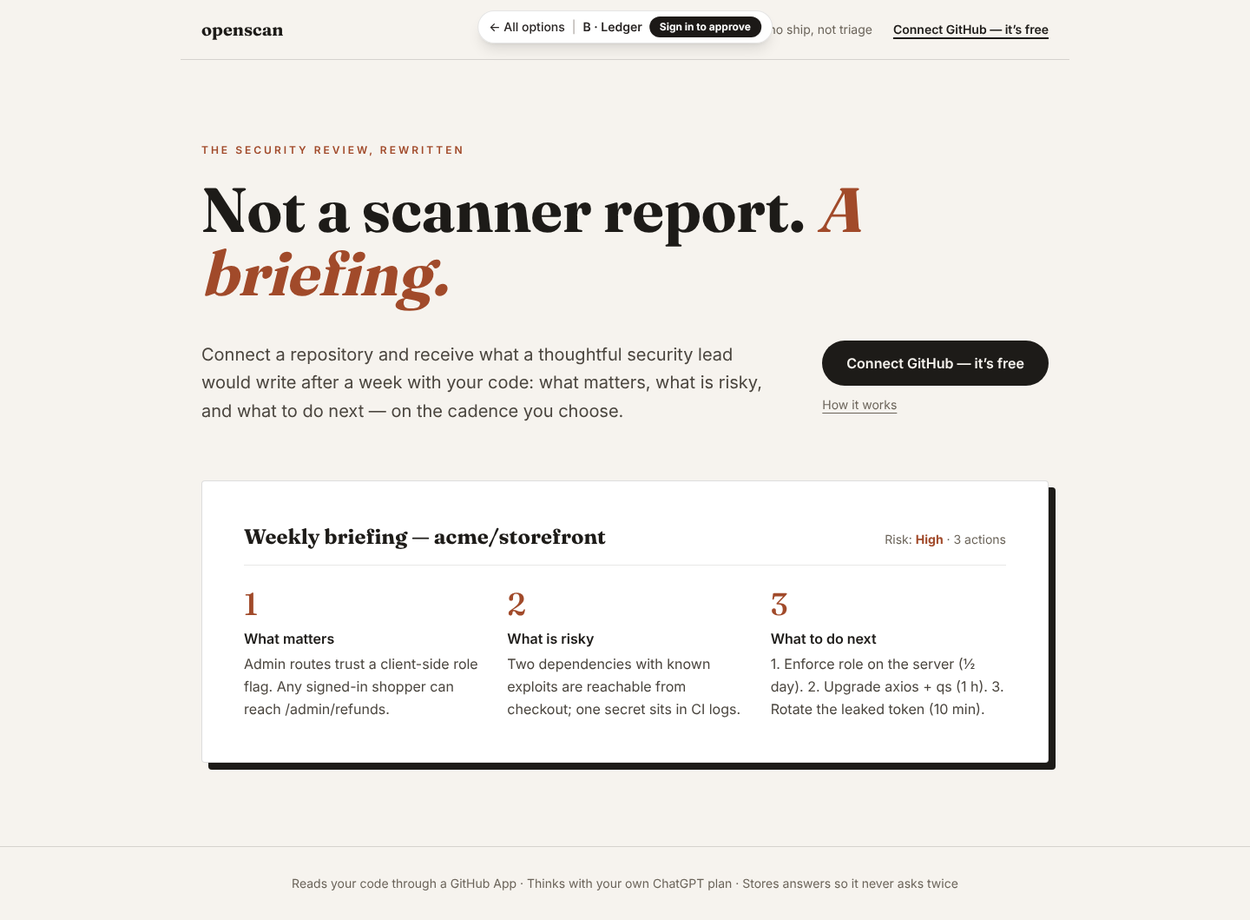
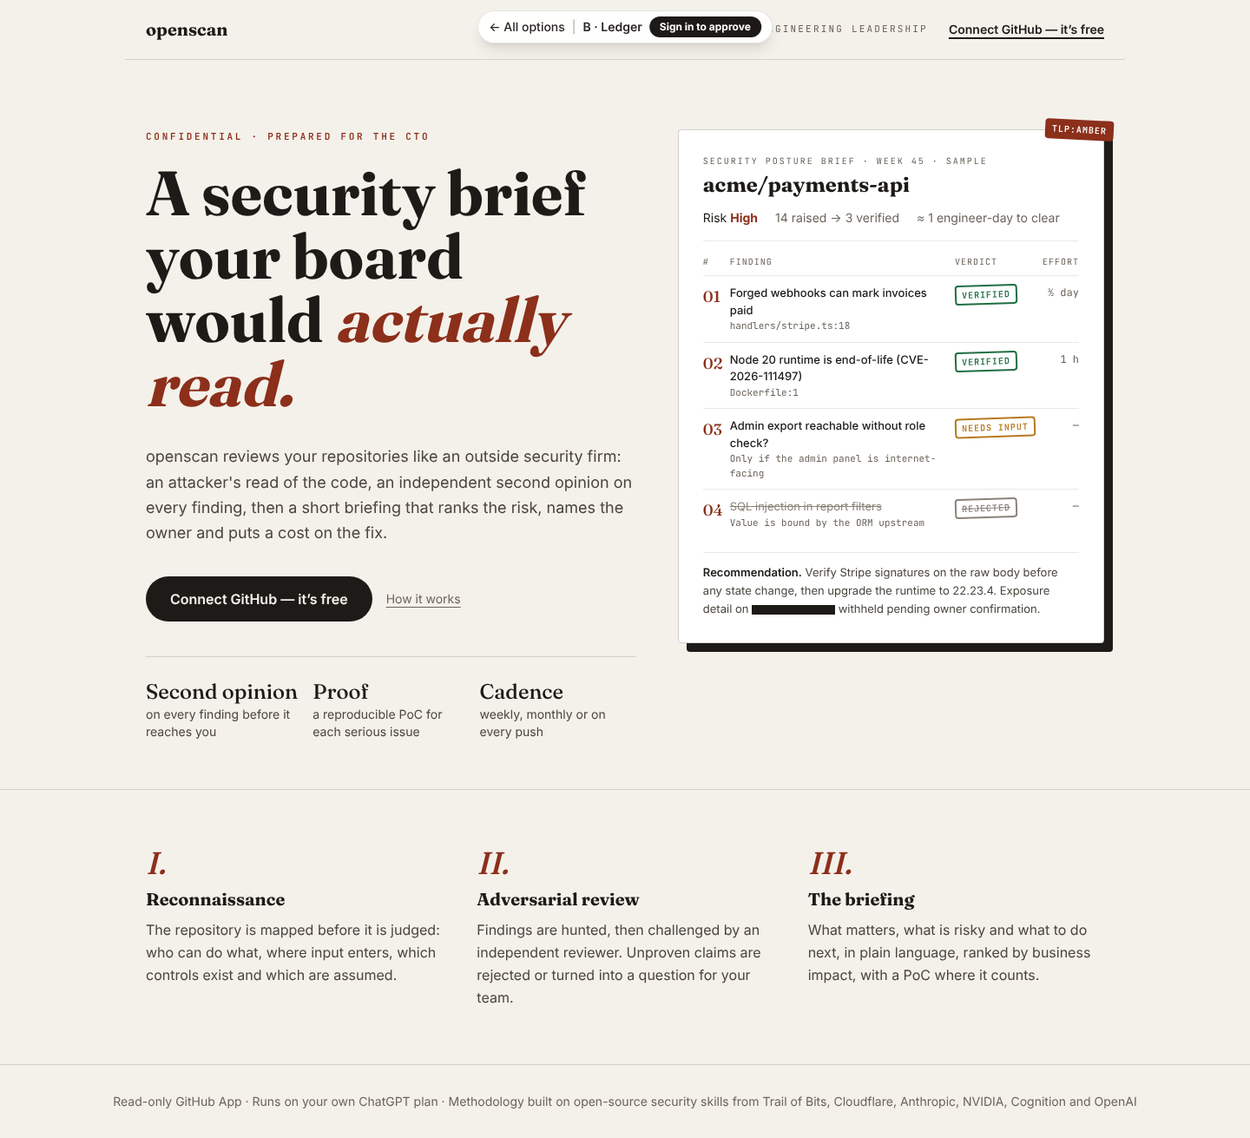
Rework landing options A (Signal) and B (Ledger) for CTO / team-lead audience
A: operator-console scan session showing candidates disproven by the validator.
B: consultancy-style confidential CTO briefing with verdict-stamped risk register.

Claude-Session: https://claude.ai/code/session_01HerkYyGpsidv53piZkFSrR

diff --git a/src/components/landing/DesignSignal.tsx b/src/components/landing/DesignSignal.tsx
@@ -1,83 +1,141 @@
 import type { LandingProps } from './types'
 
-/** Option A — "Signal": dark, terminal-flavoured, shows the triage output as the hero. */
+const mono = 'font-mono'
+
+function Line({ tag, color, children }: { tag: string; color: string; children: React.ReactNode }) {
+  return (
+    <p className="flex gap-3">
+      <span className={`w-[86px] shrink-0 ${color}`}>[{tag}]</span>
+      <span className="text-[#c9d1d9]">{children}</span>
+    </p>
+  )
+}
+
+/**
+ * Option A — "Signal": dark, operator-console aesthetic. Leads with a live scan
+ * session where most candidates are disproven before they reach you.
+ */
 export function DesignSignal({ cta, secondary }: LandingProps) {
   return (
-    <div className="relative min-h-screen overflow-hidden bg-[#07090c] text-[#e6edf3]">
-      <div className="pointer-events-none absolute inset-x-0 top-0 h-[480px] bg-[radial-gradient(60%_60%_at_50%_0%,rgba(52,211,153,0.18),transparent)]" />
-      <nav className="relative mx-auto flex max-w-6xl items-center justify-between px-6 py-5">
-        <span className="font-mono text-sm font-semibold tracking-tight text-emerald-300">openscan</span>
-        <a href={cta.href} className="rounded-md border border-emerald-400/30 px-3 py-1.5 font-mono text-xs text-emerald-200 hover:bg-emerald-400/10">
+    <div className="relative min-h-screen overflow-hidden bg-[#05070a] text-[#e6edf3]">
+      <div className="pointer-events-none absolute inset-0 bg-[radial-gradient(50%_40%_at_70%_0%,rgba(52,211,153,0.16),transparent),radial-gradient(40%_30%_at_0%_30%,rgba(56,189,248,0.08),transparent)]" />
+      <div className="pointer-events-none absolute inset-0 bg-[linear-gradient(rgba(255,255,255,0.025)_1px,transparent_1px)] bg-[size:100%_4px]" />
+
+      <nav className={`relative mx-auto flex max-w-6xl items-center justify-between px-6 py-5 ${mono} text-xs`}>
+        <span className="flex items-center gap-1 text-sm font-semibold text-emerald-300">
+          <span className="text-[#5f6b78]">~/</span>openscan<span className="ml-0.5 inline-block h-4 w-2 animate-pulse bg-emerald-300" />
+        </span>
+        <div className="hidden items-center gap-6 text-[#7d8590] md:flex">
+          <span>recon</span>
+          <span>hunt</span>
+          <span>validate</span>
+          <span>brief</span>
+        </div>
+        <a href={cta.href} className="rounded border border-emerald-400/40 px-3 py-1.5 text-emerald-200 hover:bg-emerald-400/10">
           {cta.label} →
         </a>
       </nav>
 
-      <section className="relative mx-auto grid max-w-6xl gap-12 px-6 pb-20 pt-12 lg:grid-cols-[1.1fr_1fr] lg:pt-20">
+      <section className="relative mx-auto grid max-w-6xl gap-12 px-6 pb-16 pt-12 lg:grid-cols-[1fr_1.08fr] lg:pt-16">
         <div>
-          <p className="mb-5 font-mono text-xs uppercase tracking-[0.2em] text-emerald-300/80">AI security review · GitHub App</p>
-          <h1 className="text-4xl font-extrabold leading-[1.05] tracking-tight sm:text-6xl">
-            Less noise.
+          <p className={`mb-5 ${mono} text-xs uppercase tracking-[0.2em] text-emerald-300/80`}>
+            <span className="text-[#5f6b78]">$</span> continuous AI pentest · GitHub App
+          </p>
+          <h1 className="text-4xl font-extrabold leading-[1.04] tracking-tight sm:text-6xl">
+            Every finding
             <br />
-            <span className="text-emerald-300">The three things</span>
+            was attacked
             <br />
-            worth fixing today.
+            <span className="bg-gradient-to-r from-emerald-300 to-sky-300 bg-clip-text text-transparent">before you saw it.</span>
           </h1>
           <p className="mt-6 max-w-xl text-lg text-[#9aa7b4]">
-            Install the app, pick repositories, and an agent reads your code like a new senior engineer would — asking questions, answering most of them
-            itself, and turning findings into a short, ranked plan.
+            openscan hunts your repositories like a red team, then hands every candidate to a second, independent agent whose only job is to disprove it.
+            What survives gets a severity, a source trace and a fix. The rest is shown with the reasoning for dismissing it.
           </p>
           <div className="mt-8 flex flex-wrap items-center gap-3">
-            <a href={cta.href} className="rounded-md bg-emerald-400 px-5 py-3 font-semibold text-[#07130d] shadow-[0_0_40px_-8px_rgba(52,211,153,0.8)] hover:bg-emerald-300">
+            <a href={cta.href} className="rounded-md bg-emerald-400 px-5 py-3 font-semibold text-[#04130c] shadow-[0_0_44px_-8px_rgba(52,211,153,0.85)] hover:bg-emerald-300">
               {cta.label}
             </a>
             {secondary && (
-              <a href={secondary.href} className="px-3 py-3 font-mono text-sm text-[#9aa7b4] hover:text-white">
-                {secondary.label}
+              <a href={secondary.href} className={`px-3 py-3 ${mono} text-sm text-[#9aa7b4] hover:text-white`}>
+                {secondary.label} ↓
               </a>
             )}
           </div>
-          <p className="mt-4 font-mono text-xs text-[#5f6b78]">Inference runs on your own ChatGPT plan. No API keys.</p>
+          <dl className={`mt-10 grid max-w-md grid-cols-3 gap-4 border-t border-white/10 pt-6 ${mono}`}>
+            {[
+              ['read-only', 'GitHub access'],
+              ['0', 'API keys: runs on your ChatGPT'],
+              ['1 page', 'brief for leadership'],
+            ].map(([v, k]) => (
+              <div key={k}>
+                <dt className="text-lg font-semibold text-white">{v}</dt>
+                <dd className="mt-1 text-[11px] leading-snug text-[#7d8590]">{k}</dd>
+              </div>
+            ))}
+          </dl>
         </div>
 
-        <div className="rounded-xl border border-white/10 bg-[#0d1117] p-1 shadow-2xl">
-          <div className="flex items-center gap-1.5 border-b border-white/5 px-3 py-2">
+        <div className="rounded-xl border border-white/10 bg-[#0b0f14]/90 shadow-2xl backdrop-blur">
+          <div className="flex items-center gap-1.5 border-b border-white/5 px-4 py-2.5">
             <span className="h-2.5 w-2.5 rounded-full bg-[#ff5f56]" />
             <span className="h-2.5 w-2.5 rounded-full bg-[#ffbd2e]" />
             <span className="h-2.5 w-2.5 rounded-full bg-[#27c93f]" />
-            <span className="ml-3 font-mono text-[11px] text-[#5f6b78]">acme/payments-api · report</span>
+            <span className={`ml-3 ${mono} text-[11px] text-[#5f6b78]`}>openscan — acme/payments-api — sample session</span>
           </div>
-          <div className="space-y-4 p-5 font-mono text-[13px] leading-relaxed">
-            <p className="text-[#5f6b78]">$ openscan --depth=deep</p>
-            <p>
-              <span className="text-emerald-300">✓</span> read 41 files · checked 612 deps · <span className="text-amber-300">2 questions for you</span>
-            </p>
-            <div className="rounded-lg border border-red-400/20 bg-red-400/5 p-3">
-              <p className="text-red-300">1 · HIGH  Webhook signature not verified</p>
-              <p className="text-[#9aa7b4]">src/routes/stripe.ts:18 → anyone can mark invoices paid</p>
+          <div className={`space-y-1.5 p-5 ${mono} text-[12.5px] leading-relaxed`}>
+            <p className="text-[#5f6b78]">$ openscan scan acme/payments-api --depth=deep</p>
+            <Line tag="recon" color="text-sky-300">3 principals · 41 entry points · 2 trust boundaries</Line>
+            <Line tag="signals" color="text-sky-300">612 deps · node:20.11 is EOL (CVE-2026-111497)</Line>
+            <Line tag="hunt" color="text-amber-300">14 candidates from AI review + static rules</Line>
+            <Line tag="validate" color="text-rose-300">
+              <span className="text-rose-300">✗ 9 rejected</span> <span className="text-[#7d8590]">controls found upstream</span>
+            </Line>
+            <Line tag="validate" color="text-amber-300">
+              <span className="text-amber-300">? 2 need input</span> <span className="text-[#7d8590]">asked your team</span>
+            </Line>
+            <Line tag="validate" color="text-emerald-300">
+              <span className="text-emerald-300">✓ 3 confirmed</span>
+            </Line>
+            <Line tag="brief" color="text-emerald-300">3 actions · ~1 engineer-day · report ready</Line>
+
+            <div className="mt-4 rounded-lg border border-red-400/25 bg-red-400/[0.06] p-3">
+              <div className="flex items-center justify-between gap-2">
+                <p className="text-red-300">HIGH · Stripe webhook signature never verified</p>
+                <span className="rounded bg-emerald-500 px-1.5 text-[10px] font-bold text-black">✓ VERIFIED</span>
+              </div>
+              <p className="mt-2 text-[#9aa7b4]">attacker → POST /webhooks/stripe → handlers/stripe.ts:18 → invoices.markPaid()</p>
+              <p className="mt-1 text-[#7d8590]">gates: reachability ✓ impact ✓ no upstream control ✓</p>
             </div>
-            <div className="rounded-lg border border-amber-400/20 bg-amber-400/5 p-3">
-              <p className="text-amber-300">2 · MED   jsonwebtoken@8.5.1 (CVE-2022-23529)</p>
-              <p className="text-[#9aa7b4]">upgrade to ≥ 9.0.0 · reachable from /auth</p>
+            <div className="rounded-lg border border-white/10 p-3 text-[#7d8590]">
+              <p className="line-through decoration-rose-400/60">MED · SQL injection in reports/query.ts:44</p>
+              <p className="mt-1">rejected: value bound by ORM parameter at db.ts:12</p>
             </div>
-            <p className="text-[#9aa7b4]">
-              <span className="text-emerald-300">next →</span> verify signatures with the raw body (≈15 min)
-            </p>
           </div>
         </div>
       </section>
 
-      <section className="relative border-t border-white/5">
-        <div className="mx-auto grid max-w-6xl gap-px overflow-hidden px-6 py-16 sm:grid-cols-3">
-          {[
-            ['01 · Understands first', 'Builds a profile of your stack, data stores and trust boundaries before judging anything.'],
-            ['02 · Asks, then answers', 'Raises the questions a reviewer would — and resolves most by reading further.'],
-            ['03 · Tells you what to do', 'Ranked risks, plain-language impact, a fix order. Optional PoC for each serious issue.'],
-          ].map(([t, d]) => (
-            <div key={t} className="p-6">
-              <p className="font-mono text-sm text-emerald-300">{t}</p>
-              <p className="mt-2 text-[#9aa7b4]">{d}</p>
-            </div>
-          ))}
+      <section id="how" className="relative border-t border-white/5">
+        <div className="mx-auto max-w-6xl px-6 py-16">
+          <p className={`${mono} text-xs uppercase tracking-[0.2em] text-[#7d8590]`}>// the pipeline</p>
+          <div className="mt-6 grid gap-px overflow-hidden rounded-xl border border-white/10 bg-white/10 sm:grid-cols-2 lg:grid-cols-4">
+            {[
+              ['01', 'recon', 'Maps principals, entry points and trust boundaries before judging anything. Questions it can\'t answer from code go to your team.'],
+              ['02', 'hunt', 'AI review plus deterministic checks: dependency CVEs, runtime EOL, CI pipelines that run AI agents.'],
+              ['03', 'validate', 'A fresh agent tries to refute each finding: is it reachable, is the impact real, is there a control upstream?'],
+              ['04', 'brief', 'Ranked fix plan for leads, a one-page posture brief for the CTO, and a PoC for every serious issue.'],
+            ].map(([n, t, d]) => (
+              <div key={n} className="bg-[#05070a] p-6">
+                <p className={`${mono} text-sm text-emerald-300`}>
+                  {n} <span className="text-white">{t}</span>
+                </p>
+                <p className="mt-3 text-sm text-[#9aa7b4]">{d}</p>
+              </div>
+            ))}
+          </div>
+          <p className={`mt-6 ${mono} text-[11px] text-[#5f6b78]`}>
+            methodology built on open-source security skills published by Trail of Bits, Cloudflare, Anthropic, NVIDIA, Cognition and OpenAI
+          </p>
         </div>
       </section>
     </div>

diff --git a/src/components/landing/DesignLedger.tsx b/src/components/landing/DesignLedger.tsx
@@ -1,31 +1,49 @@
 import type { LandingProps } from './types'
 
-/** Option B — "Ledger": light, editorial, the report as a document you'd forward to your CTO. */
+function Stamp({ kind }: { kind: 'verified' | 'input' | 'rejected' }) {
+  const s =
+    kind === 'verified'
+      ? 'border-[#1f6f43] text-[#1f6f43]'
+      : kind === 'input'
+        ? 'border-[#b7791f] text-[#b7791f]'
+        : 'border-[#8a8379] text-[#8a8379] line-through'
+  const label = kind === 'verified' ? 'Verified' : kind === 'input' ? 'Needs input' : 'Rejected'
+  return <span className={`inline-block -rotate-2 whitespace-nowrap rounded-sm border-2 px-1.5 py-0.5 font-mono text-[10px] font-bold uppercase tracking-widest ${s}`}>{label}</span>
+}
+
+function Redacted({ w }: { w: string }) {
+  return <span className={`inline-block h-[0.9em] translate-y-[2px] bg-[#1d1b18] ${w}`} />
+}
+
+/**
+ * Option B — "Ledger": light, editorial. The product is the security briefing a
+ * consultancy would hand a CTO: a risk register with verdicts, not a scanner dump.
+ */
 export function DesignLedger({ cta, secondary }: LandingProps) {
   return (
-    <div className="relative min-h-screen bg-[#f6f3ee] text-[#1d1b18]">
-      <nav className="mx-auto flex max-w-5xl items-center justify-between border-b border-[#1d1b18]/15 px-6 py-5">
+    <div className="relative min-h-screen bg-[#f4f1ea] text-[#1d1b18]">
+      <nav className="mx-auto flex max-w-6xl items-center justify-between border-b border-[#1d1b18]/15 px-6 py-5">
         <span className="font-serif text-xl font-bold">openscan</span>
         <div className="flex items-center gap-6 text-sm">
-          <span className="hidden text-[#6b645a] sm:inline">For teams who ship, not triage</span>
+          <span className="hidden font-mono text-[11px] uppercase tracking-[0.2em] text-[#6b645a] md:inline">Security briefings for engineering leadership</span>
           <a href={cta.href} className="font-semibold underline decoration-2 underline-offset-4">
             {cta.label}
           </a>
         </div>
       </nav>
 
-      <section className="mx-auto max-w-5xl px-6 pb-16 pt-16 sm:pt-24">
-        <p className="mb-6 text-xs font-semibold uppercase tracking-[0.25em] text-[#a14a2a]">The security review, rewritten</p>
-        <h1 className="max-w-4xl font-serif text-5xl font-bold leading-[1.02] sm:text-7xl">
-          Not a scanner report. <em className="text-[#a14a2a]">A briefing.</em>
-        </h1>
-        <div className="mt-10 grid gap-10 sm:grid-cols-[1fr_auto]">
-          <p className="max-w-2xl text-xl leading-relaxed text-[#4a453e]">
-            Connect a repository and receive what a thoughtful security lead would write after a week with your code: what matters, what is risky, and
-            what to do next — on the cadence you choose.
+      <section className="mx-auto grid max-w-6xl gap-12 px-6 pb-14 pt-14 lg:grid-cols-[1.15fr_1fr] lg:pt-20">
+        <div>
+          <p className="font-mono text-[11px] font-semibold uppercase tracking-[0.25em] text-[#8c2f1b]">Confidential · prepared for the CTO</p>
+          <h1 className="mt-5 font-serif text-5xl font-bold leading-[1.02] sm:text-6xl lg:text-7xl">
+            A security brief your board would <em className="text-[#8c2f1b]">actually read.</em>
+          </h1>
+          <p className="mt-8 max-w-xl text-lg leading-relaxed text-[#4a453e]">
+            openscan reviews your repositories like an outside security firm: an attacker&apos;s read of the code, an independent second opinion on every
+            finding, then a short briefing that ranks the risk, names the owner and puts a cost on the fix.
           </p>
-          <div className="flex flex-col items-start gap-3">
-            <a href={cta.href} className="rounded-full bg-[#1d1b18] px-7 py-3.5 font-semibold text-[#f6f3ee] hover:bg-[#a14a2a]">
+          <div className="mt-9 flex flex-wrap items-center gap-4">
+            <a href={cta.href} className="rounded-full bg-[#1d1b18] px-7 py-3.5 font-semibold text-[#f4f1ea] hover:bg-[#8c2f1b]">
               {cta.label}
             </a>
             {secondary && (
@@ -34,33 +52,96 @@ export function DesignLedger({ cta, secondary }: LandingProps) {
               </a>
             )}
           </div>
+          <ul className="mt-10 grid max-w-xl gap-3 border-t border-[#1d1b18]/15 pt-6 text-sm text-[#4a453e] sm:grid-cols-3">
+            <li>
+              <span className="block font-serif text-2xl text-[#1d1b18]">Second opinion</span>
+              on every finding before it reaches you
+            </li>
+            <li>
+              <span className="block font-serif text-2xl text-[#1d1b18]">Proof</span>
+              a reproducible PoC for each serious issue
+            </li>
+            <li>
+              <span className="block font-serif text-2xl text-[#1d1b18]">Cadence</span>
+              weekly, monthly or on every push
+            </li>
+          </ul>
         </div>
-      </section>
 
-      <section className="mx-auto max-w-5xl px-6 pb-24">
-        <article className="rounded-sm border border-[#1d1b18]/15 bg-white p-8 shadow-[8px_8px_0_#1d1b18] sm:p-12">
-          <header className="flex flex-wrap items-baseline justify-between gap-2 border-b border-[#1d1b18]/10 pb-4">
-            <p className="font-serif text-2xl font-bold">Weekly briefing — acme/storefront</p>
-            <p className="text-sm text-[#6b645a]">Risk: <strong className="text-[#a14a2a]">High</strong> · 3 actions</p>
+        {/* The briefing */}
+        <article className="relative self-start rounded-sm border border-[#1d1b18]/20 bg-white p-7 shadow-[10px_10px_0_#1d1b18]">
+          <div className="absolute -right-3 -top-3 rotate-3 rounded-sm bg-[#8c2f1b] px-2 py-1 font-mono text-[10px] font-bold uppercase tracking-widest text-white">TLP:AMBER</div>
+          <header className="border-b border-[#1d1b18]/10 pb-4">
+            <p className="font-mono text-[10px] uppercase tracking-[0.2em] text-[#6b645a]">Security posture brief · week 45 · sample</p>
+            <p className="mt-1 font-serif text-2xl font-bold">acme/payments-api</p>
+            <div className="mt-3 flex flex-wrap items-center gap-x-5 gap-y-1 text-sm">
+              <span>
+                Risk <strong className="text-[#8c2f1b]">High</strong>
+              </span>
+              <span className="text-[#6b645a]">14 raised → 3 verified</span>
+              <span className="text-[#6b645a]">≈ 1 engineer-day to clear</span>
+            </div>
           </header>
-          <div className="mt-6 grid gap-8 sm:grid-cols-3">
-            {[
-              ['What matters', 'Admin routes trust a client-side role flag. Any signed-in shopper can reach /admin/refunds.'],
-              ['What is risky', 'Two dependencies with known exploits are reachable from checkout; one secret sits in CI logs.'],
-              ['What to do next', '1. Enforce role on the server (½ day). 2. Upgrade axios + qs (1 h). 3. Rotate the leaked token (10 min).'],
-            ].map(([h, b], i) => (
-              <div key={h}>
-                <p className="font-serif text-4xl text-[#a14a2a]">{i + 1}</p>
-                <p className="mt-2 font-semibold">{h}</p>
-                <p className="mt-1 leading-relaxed text-[#4a453e]">{b}</p>
-              </div>
-            ))}
+          <table className="mt-4 w-full text-left text-[13px]">
+            <thead>
+              <tr className="font-mono text-[10px] uppercase tracking-widest text-[#6b645a]">
+                <th className="pb-2 font-normal">#</th>
+                <th className="pb-2 font-normal">Finding</th>
+                <th className="pb-2 font-normal">Verdict</th>
+                <th className="pb-2 text-right font-normal">Effort</th>
+              </tr>
+            </thead>
+            <tbody className="align-top">
+              {(
+                [
+                  ['01', 'Forged webhooks can mark invoices paid', 'handlers/stripe.ts:18', 'verified', '½ day'],
+                  ['02', 'Node 20 runtime is end-of-life (CVE-2026-111497)', 'Dockerfile:1', 'verified', '1 h'],
+                  ['03', 'Admin export reachable without role check?', 'Only if the admin panel is internet-facing', 'input', '—'],
+                  ['04', 'SQL injection in report filters', 'Value is bound by the ORM upstream', 'rejected', '—'],
+                ] as const
+              ).map(([n, t, sub, verdict, effort]) => (
+                <tr key={n} className="border-t border-[#1d1b18]/10">
+                  <td className="py-2.5 pr-2 font-serif text-lg text-[#8c2f1b]">{n}</td>
+                  <td className="py-2.5 pr-3">
+                    <span className={verdict === 'rejected' ? 'text-[#8a8379] line-through' : 'font-medium'}>{t}</span>
+                    <span className="block font-mono text-[11px] text-[#6b645a]">{sub}</span>
+                  </td>
+                  <td className="py-2.5 pr-2">
+                    <Stamp kind={verdict} />
+                  </td>
+                  <td className="py-2.5 text-right font-mono text-[12px] text-[#6b645a]">{effort}</td>
+                </tr>
+              ))}
+            </tbody>
+          </table>
+          <div className="mt-4 border-t border-[#1d1b18]/10 pt-3 text-[13px] leading-relaxed text-[#4a453e]">
+            <p>
+              <span className="font-semibold text-[#1d1b18]">Recommendation.</span> Verify Stripe signatures on the raw body before any state change, then
+              upgrade the runtime to 22.23.4. Exposure detail on <Redacted w="w-24" /> withheld pending owner confirmation.
+            </p>
           </div>
         </article>
       </section>
 
+      <section id="how" className="border-t border-[#1d1b18]/15">
+        <div className="mx-auto grid max-w-6xl gap-10 px-6 py-16 md:grid-cols-3">
+          {[
+            ['I.', 'Reconnaissance', 'The repository is mapped before it is judged: who can do what, where input enters, which controls exist and which are assumed.'],
+            ['II.', 'Adversarial review', 'Findings are hunted, then challenged by an independent reviewer. Unproven claims are rejected or turned into a question for your team.'],
+            ['III.', 'The briefing', 'What matters, what is risky and what to do next, in plain language, ranked by business impact, with a PoC where it counts.'],
+          ].map(([n, t, d]) => (
+            <div key={t}>
+              <p className="font-serif text-4xl italic text-[#8c2f1b]">{n}</p>
+              <p className="mt-2 font-serif text-xl font-bold">{t}</p>
+              <p className="mt-2 leading-relaxed text-[#4a453e]">{d}</p>
+            </div>
+          ))}
+        </div>
+      </section>
+
       <footer className="border-t border-[#1d1b18]/15 py-8 text-center text-sm text-[#6b645a]">
-        Reads your code through a GitHub App · Thinks with your own ChatGPT plan · Stores answers so it never asks twice
+        Read-only GitHub App · Runs on your own ChatGPT plan · Methodology built on open-source security skills from Trail of Bits, Cloudflare, Anthropic,
+        NVIDIA, Cognition and OpenAI
       </footer>
     </div>
   )

diff --git a/src/components/landing/index.tsx b/src/components/landing/index.tsx
@@ -5,8 +5,8 @@ import { DesignSignal } from './DesignSignal'
 import type { LandingProps } from './types'
 
 export const LANDING_DESIGNS: Record<'signal' | 'ledger' | 'redline', { name: string; blurb: string; Component: ComponentType<LandingProps> }> = {
-  signal: { name: 'A · Signal', blurb: 'Dark, developer-native. Leads with the actual triage output.', Component: DesignSignal },
-  ledger: { name: 'B · Ledger', blurb: 'Light, editorial. Positions the report as a briefing for leadership.', Component: DesignLedger },
+  signal: { name: 'A · Signal', blurb: 'Dark operator console. A live scan session where most candidates are disproven before they reach you.', Component: DesignSignal },
+  ledger: { name: 'B · Ledger', blurb: 'Light, consultancy-style. A confidential CTO briefing: risk register with verified / needs-input / rejected stamps.', Component: DesignLedger },
   redline: { name: 'C · Redline', blurb: 'Offensive-security dossier: attack paths, PoC evidence, a brief for CTOs and team leads.', Component: DesignRedline },
 }
 export type { LandingProps }

diff --git a/PRODUCT.md b/PRODUCT.md
@@ -25,8 +25,8 @@ Visitors are **engineering team leads and CTOs**. They don't want a 400-row scan
 
 | Option | Direction | Status |
 | --- | --- | --- |
-| A · Signal | Dark, developer-native. Leads with the actual triage output in a terminal card. | candidate |
-| B · Ledger | Light, editorial. Positions the report as a briefing you'd forward to leadership. | candidate |
+| A · Signal | Dark operator console. A live scan session (recon → hunt → validate → brief) shows candidates being disproven; verified findings come with a source trace. | candidate |
+| B · Ledger | Light, consultancy-style. A confidential CTO briefing with a risk register stamped verified / needs input / rejected, effort per fix, and a recommendation. | candidate |
 | C · Redline | Offensive-security dossier: attack path, PoC evidence, fix order for CTOs and team leads. Replaced the earlier "Aurora" option, which was rejected as too consumer-friendly. | candidate |
 
 Approval is stored in D1 (`app_settings.landing_design`). Until something is approved, `/` shows option A with a banner pointing to `/design`. Set `ADMIN_GITHUB_LOGINS` to restrict who can approve. Screenshots are in [`docs/design/`](./docs/design).
